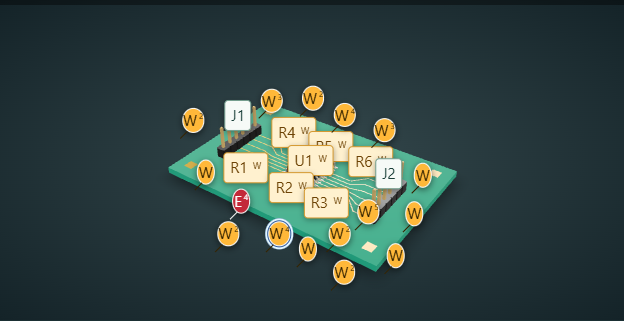
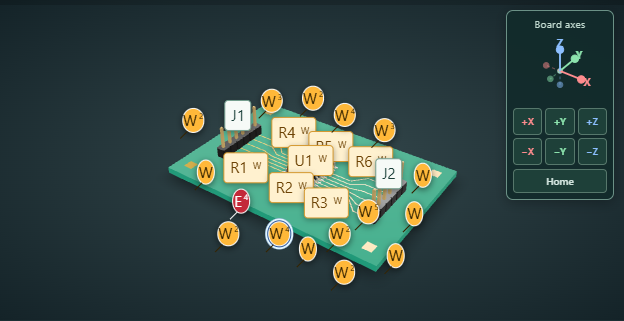
Add 3D identifier visibility and clickable camera axes

diff --git a/src/board3d.css b/src/board3d.css
@@ -6,3 +6,5 @@
 .component-hotspot:focus-visible{opacity:1;pointer-events:auto}.finding-3d-summary button{align-self:flex-start;margin-top:5px;padding:6px 9px;border:1px solid #c49b4b;border-radius:4px;background:#fff8e8;color:#61430e}@media(min-width:981px){.r2-board .native-model-stage model-viewer,.r2-board .board3d-webgl model-viewer{height:clamp(320px,calc(100dvh - 480px),520px)!important}}
 .finding-3d-legend{display:flex;flex-wrap:wrap;align-items:center;gap:10px 16px;padding:10px 12px;background:#eaf1ef;border-bottom:1px solid #c4d5ce;color:#294c42;font-size:12px}.finding-3d-legend label{display:flex;align-items:center;gap:5px;cursor:pointer;white-space:nowrap}.finding-3d-legend>span{flex-basis:100%;font-size:11px;line-height:1.5;color:#526c62}.finding-key{display:inline-grid;place-items:center;width:19px;height:19px;font-style:normal;font-weight:700;border-radius:50%;font-size:11px}.finding-key.error{background:#ba2734;color:#fff}.finding-key.warning{background:#f5b33a;color:#422900}.finding-3d-marker{display:inline-flex;align-items:center;justify-content:center;min-width:25px;min-height:25px;border:2px solid #fff;border-radius:50%;font:700 12px ui-monospace,monospace;box-shadow:0 2px 7px #0008;cursor:pointer}.finding-3d-marker.error{color:#fff;background:#c32939}.finding-3d-marker.warning{color:#352300;background:#ffb839}.finding-3d-marker sup{font-size:10px;margin-left:2px}.finding-3d-marker.selected{outline:3px solid #e3f7ff;outline-offset:3px;box-shadow:0 0 0 6px #244f96}.finding-3d-marker:not([data-visible]){opacity:0;pointer-events:none}.finding-3d-marker:focus-visible{opacity:1;outline:3px solid #b8e6ff;outline-offset:3px;pointer-events:auto}.component-hotspot[data-severity=error]{border-color:#da5260;box-shadow:0 0 0 1px #da5260;color:#8b1523;background:#ffe7eb}.component-hotspot[data-severity=warning]{border-color:#d5992f;color:#6d4305;background:#fff1cf}.component-hotspot sup{font-size:9px;margin-left:3px}.component-hotspot[data-selected=true]{outline:2px solid #92d4ff;outline-offset:3px}.finding-3d-list{padding:12px;background:#f3f7f5;color:#23473c;font-size:12px;border-top:1px solid #bed2c6}.finding-3d-list>div{display:flex;align-items:center;justify-content:space-between;gap:10px;margin-bottom:8px}.finding-3d-list>div button{font-size:20px;min-width:30px;min-height:30px}.finding-3d-list>button{display:block;width:100%;padding:10px;margin:5px 0;text-align:left;border:1px solid #b2c6b9;border-left:4px solid #c19030;border-radius:4px;background:#fff;color:#254d3d}.finding-3d-list>button[data-severity=error]{border-left-color:#be293a}.finding-3d-list>button[aria-pressed=true]{outline:2px solid #2d7774;outline-offset:1px}.finding-3d-list b{text-transform:capitalize}.finding-3d-list small{display:block;color:#5a7265;margin-top:4px}@media(max-width:600px){.finding-3d-marker{min-width:32px;min-height:32px}.finding-3d-legend label,.finding-3d-list button{min-height:44px}}
 .finding-3d-marker{position:relative;left:22px;top:-18px;min-width:18px;min-height:18px;font-size:10px;border-width:1px}.finding-3d-marker sup{font-size:8px}.finding-3d-marker.selected{outline-width:2px;outline-offset:1px;box-shadow:0 0 0 3px #244f96}.finding-3d-marker::after{content:"";position:absolute;width:1px;height:10px;left:0;bottom:-8px;background:currentColor;transform:rotate(45deg);pointer-events:none}.finding-3d-list{max-height:240px;overflow:auto}@media(max-width:600px){.finding-3d-marker{min-width:25px;min-height:25px;font-size:11px;left:24px;top:-24px}}
+.axis-gizmo{position:absolute;top:10px;right:10px;z-index:8;width:108px;padding:6px;background:#112b2bea;border:1px solid #6b9186;border-radius:7px;color:#d7e9e3;box-shadow:0 3px 12px #0004;user-select:none}.axis-gizmo-caption{display:block;text-align:center;font-size:10px;letter-spacing:.3px;color:#bfd8ce}.axis-gizmo svg{display:block;width:100%;height:76px;pointer-events:none}.axis-gizmo-buttons{display:grid;grid-template-columns:repeat(3,minmax(0,1fr));gap:3px}.axis-gizmo button{min-width:0;min-height:27px;border:1px solid #56776b;border-radius:4px;background:#1e4039;font:600 11px ui-monospace,monospace;cursor:pointer}.axis-gizmo button[aria-pressed=true]{background:#43645b;border-color:#e4f6ee;box-shadow:inset 0 0 0 1px #e4f6ee}.axis-gizmo button:disabled{opacity:.45;cursor:wait}.axis-gizmo button:focus-visible{outline:3px solid #ffe09a;outline-offset:2px}.axis-gizmo .axis-gizmo-home{width:100%;font-family:inherit;font-size:10px;color:#d7e9e3;margin-top:4px;min-height:24px}@media(max-width:600px){.axis-gizmo{width:112px;right:7px;top:7px}.axis-gizmo svg{height:58px}.axis-gizmo button{min-height:32px}.axis-gizmo .axis-gizmo-home{min-height:30px}}
+.axis-gizmo svg{pointer-events:auto}.axis-gizmo svg g{cursor:pointer}

diff --git a/src/ComponentLabels.tsx b/src/ComponentLabels.tsx
@@ -48,7 +48,7 @@ export function useComponentLabels(viewer:RefObject<HTMLElement|null>,geometry:G
  const severityFor=(p:typeof parts[number])=>{const findings=componentFindings(p.reference,p.id,geometry,options.severityFindings||options.findings).filter(f=>!f.excluded&&f.source!=='KiCad ERC');return findings.some(f=>f.severity==='error')?'error':findings.some(f=>f.severity==='warning')?'warning':undefined};
  const close=()=>{setPinned(undefined);setActive(undefined);viewer.current?.focus()};
  return {
-  control:enabled?<label className="component-label-toggle"><input type="checkbox" checked={labels} onChange={e=>setLabels(e.target.checked)}/>Labels</label>:null,
+  control:enabled?<label className="component-label-toggle"><input type="checkbox" checked={labels} onChange={e=>{setLabels(e.target.checked);if(!e.target.checked){setPinned(undefined);setActive(undefined)}}}/>Identifiers</label>:null,
   select:(reference:string)=>{setPinned(reference);setActive(reference)},
   hotspots:enabled?<>{labels&&parts.map(p=><button key={p.reference} slot={`hotspot-${p.reference}`} data-component-label={p.reference} data-selected={selectedPart(p)?'true':undefined} data-change={statuses.get(p.id)} data-severity={severityFor(p)} data-position={`${p.x-cx}m ${p.back?-5.5:p.type==='Connector / pin header'?9:p.type==='Integrated circuit'?3.1:1.1}m ${cy-p.y}m`} data-normal={p.back?'0 -1 0':'0 1 0'} data-visibility-attribute="visible" className={`component-hotspot ${active===p.reference||pinned===p.reference?'active':''}`} aria-label={`${p.reference}: ${p.type}`} aria-pressed={pinned===p.reference} aria-expanded={pinned===p.reference} aria-controls={pinned===p.reference?detailId:undefined} aria-describedby={active===p.reference&&!pinned?detailId:undefined} onPointerEnter={()=>setActive(p.reference)} onPointerLeave={()=>setActive(undefined)} onFocus={()=>setActive(p.reference)} onBlur={()=>setActive(undefined)} onClick={()=>setPinned(p.reference)} title={`${p.reference} · ${p.type}`}>{p.reference}{severityFor(p)&&<sup aria-hidden="true">{severityFor(p)==='error'?' E':' W'}</sup>}{statuses.has(p.id)&&<span> · {statuses.get(p.id)==='added'?'Added':statuses.get(p.id)==='removed'?'Removed':'Changed'}</span>}</button>)}{markers.map(o=>{const points=o.points,x=points.reduce((s,p)=>s+p[0],0)/points.length,y=points.reduce((s,p)=>s+p[1],0)/points.length;return <button key={o.id} slot={`hotspot-object-${o.id}`} className="component-hotspot object-3d-marker" data-selected-object={ids.has(o.id)?o.id:undefined} data-change={statuses.get(o.id)} data-position={`${x-cx}m ${o.layer?.toUpperCase().startsWith('B.')?-1.8:.3}m ${cy-y}m`} data-normal={o.layer?.toUpperCase().startsWith('B.')?'0 -1 0':'0 1 0'} aria-label={`Highlighted ${o.kind}${o.net?' on '+o.net:''}`} title={`UUID-resolved ${o.kind}; marker indicates object centre`}>{o.kind}{o.net?' · '+o.net:''}</button>})}</>:null,
   details:part?<div ref={detailRef} id={detailId} className={`component-tooltip ${pinned?'pinned':''}`} role={pinned?'region':'tooltip'} aria-label={pinned?`Component ${part.reference} details`:undefined} onKeyDown={e=>{if(e.key==='Escape')close()}}><strong>{part.reference} <span>{part.type}</span></strong>{pinned&&<button className="component-close" aria-label="Close component details" onClick={close}>×</button>}<p>{explanations[part.type]}</p><p className="component-id-note">{part.reference} is this part’s identifier in the design.{!pinned?' Tap or click to keep these details open.':''}</p>{part.model&&<p><b>Physical size:</b> {packageMeaning(part.model)}</p>}{part.value&&part.value!=='Review fixture'?<p><b>Design value:</b> {part.value}</p>:<p><b>Design value:</b> Not specified.</p>}{part.footprint&&<p><b>Footprint:</b> {part.footprint}</p>}{part.part_number&&<p><b>Manufacturer part:</b> {[part.manufacturer,part.part_number].filter(Boolean).join(' · ')}</p>}<p><b>Board attachment:</b> {part.pads} pads (electrical contact points), on the {part.back?'bottom':'top'} of the board.</p>{!!part.nets.length&&<p><b>Connections (nets):</b> {part.nets.map(net=>`${net} — ${netMeaning(net)}`).join('; ')}.</p>}<small>{part.model?<>KiCad library shape · Package model: {part.model.replace(/\.wrl$/,'')}</>:'Component type inferred from its identifier; 3D shape is illustrative.'}</small>{pinned&&<div className="component-related"><b>{related.length} related finding{related.length===1?'':'s'}</b>{related.map(f=><button key={f.id} aria-pressed={f.id===options.finding?.id} onClick={()=>options.onSelectFinding?.(f.id)}>{f.severity} · {f.title}{f.excluded?' (excluded)':''}</button>)}{!related.length&&<p>No finding is linked to this component in the current report. This is not a safety assessment.</p>}</div>}</div>:null,

diff --git a/src/NativeBoard3D.tsx b/src/NativeBoard3D.tsx
@@ -4,6 +4,7 @@ import {artifactUrl,demoMode,type Geometry,type Preview} from './api';
 import assignments from '../public/demo/models/assignments.json';
 import Board3D from './Board3D';
 import ModelInventory from './ModelInventory';
+import AxisGizmo from './AxisGizmo';
 import {useFindingHighlights} from './FindingHighlights';
 import {useComponentLabels} from './ComponentLabels';
 import {useLinkedCamera,type Review3DOptions} from './review3d';
@@ -27,7 +28,7 @@ export default function NativeBoard3D({pid,rid,model,geometry,preview,...options
  {error&&<div className="native-model-error" role="alert">{error}<button onClick={()=>{setLocal('');setFallback(true);setError('')}}>Use geometry preview</button></div>}
  {findingHighlights.controls}
  {options.finding&&<div className="finding-3d-summary"><strong>Selected finding: {options.finding.title}</strong><span>{src&&!mapped?'Use the geometry preview to locate this finding; this GLB has no verified component mapping.':(options.highlightIds||options.finding.board_object_ids)?.length?'Highlighted markers identify UUID-resolved objects, not an inferred collision point.':'This finding has no exact board-object mapping.'}</span>{src&&!mapped&&<button onClick={()=>setFallback(true)}>Locate finding in geometry</button>}</div>}
- {src?<><div className="native-model-stage">{createElement('model-viewer',{ref:viewer,src,tabIndex:0,loading:'eager','camera-controls':true,'touch-action':'pan-y','shadow-intensity':'1.3',exposure:'1.1','environment-image':'neutral','camera-orbit':'35deg 55deg auto',alt:'Interactive native 3D PCB with component models',style:{width:'100%',height:'520px',background:'radial-gradient(ellipse at center, #35494d, #142328)'}},identifiers.hotspots,findingHighlights.markers)}{identifiers.details}{!loaded&&!error&&<p role="status">Loading native model…</p>}</div><p className="board3d-note">{name||(example?'9 official KiCad library models · R1–R6, U1, J1–J2':'KiCad board export')} · Drag to orbit, scroll to zoom, right-drag to pan. {example&&!local?<>Visual package assignments for this synthetic board; fit and clearances are not verified. Recorded engineering results are unchanged. <a href={`${import.meta.env.BASE_URL}demo/models/LICENSE.md`}>KiCad library license</a></>:'Component shapes come from the supplied model. Use the geometry preview for UUID-linked inspection; no component coordinates are assumed for an arbitrary GLB.'}</p></>:<><Board3D geometry={geometry} preview={preview} {...options} focusReference={request}/><p className="board3d-note">Illustrative packages are shown where native models are unavailable. Open a complete GLB or supply assigned STEP/WRL files with your project ZIP.</p></>}
+ {src?<><div className="native-model-stage">{createElement('model-viewer',{ref:viewer,src,tabIndex:0,loading:'eager','camera-controls':true,'interaction-prompt':'none','touch-action':'pan-y','shadow-intensity':'1.3',exposure:'1.1','environment-image':'neutral','camera-orbit':'35deg 55deg auto',alt:'Interactive native 3D PCB with component models',style:{width:'100%',height:'520px',background:'radial-gradient(ellipse at center, #35494d, #142328)'}},identifiers.hotspots,findingHighlights.markers)}<AxisGizmo viewer={viewer} source={src} cameraGroup={options.cameraGroup} boardAxes={mapped}/>{identifiers.details}{!loaded&&!error&&<p role="status">Loading native model…</p>}</div><p className="board3d-note">{name||(example?'9 official KiCad library models · R1–R6, U1, J1–J2':'KiCad board export')} · Drag to orbit, scroll to zoom, right-drag to pan. {example&&!local?<>Visual package assignments for this synthetic board; fit and clearances are not verified. Recorded engineering results are unchanged. <a href={`${import.meta.env.BASE_URL}demo/models/LICENSE.md`}>KiCad library license</a></>:'Component shapes come from the supplied model. Use the geometry preview for UUID-linked inspection; no component coordinates are assumed for an arbitrary GLB.'}</p></>:<><Board3D geometry={geometry} preview={preview} {...options} focusReference={request}/><p className="board3d-note">Illustrative packages are shown where native models are unavailable. Open a complete GLB or supply assigned STEP/WRL files with your project ZIP.</p></>}
  {findingHighlights.panel}<ModelInventory geometry={geometry} models={assigned} onInspect={inspect} onSupply={()=>window.dispatchEvent(new Event('circuitcheck:upload'))}/>
  </div>;
 }

diff --git a/pages-tests/axes3d.spec.ts b/pages-tests/axes3d.spec.ts
@@ -1,0 +1,52 @@
+import {test,expect} from '@playwright/test';
+
+async function open3D(page:any){await page.goto('./');await page.getByRole('button',{name:'3D',exact:true}).click();await expect.poll(()=>page.locator('.native-model-stage model-viewer').evaluate((el:any)=>el.loaded)).toBe(true)}
+
+test('identifier toggle hides labels independently from findings and retains body inspection',async({page})=>{
+ await open3D(page);
+ await expect(page.getByRole('checkbox',{name:'Identifiers',exact:true})).toBeChecked();
+ await page.getByRole('button',{name:'R1: Resistor',exact:true}).click();
+ await expect(page.getByRole('region',{name:'Component R1 details'})).toBeVisible();
+ await page.getByRole('checkbox',{name:'Identifiers',exact:true}).uncheck();
+ await expect(page.locator('[data-component-label]')).toHaveCount(0);
+ await expect(page.getByRole('region',{name:'Component R1 details'})).toHaveCount(0);
+ expect(await page.locator('[data-finding-severity]').count()).toBeGreaterThan(0);
+ await page.getByRole('checkbox',{name:'Identifiers',exact:true}).check();
+ await expect(page.locator('[data-component-label]')).toHaveCount(9);
+});
+
+test('corner axes turn toward all board directions and preserve zoom',async({page})=>{
+ await open3D(page);
+ const model=page.locator('.native-model-stage model-viewer'),gizmo=page.getByRole('group',{name:'3D camera axes',exact:true});
+ await expect(gizmo).toBeVisible();
+ const radius=await model.evaluate((el:any)=>el.getCameraOrbit().radius);
+ for(const [axis,sign,theta,phi] of [['X','positive',Math.PI/2,Math.PI/2],['X','negative',-Math.PI/2,Math.PI/2],['Y','positive',Math.PI,Math.PI/2],['Y','negative',0,Math.PI/2],['Z','positive',0,.001],['Z','negative',0,Math.PI-.001]] as const){
+  const button=gizmo.getByRole('button',{name:`View from ${sign} ${axis} axis`,exact:true});
+  await button.click();
+  await expect.poll(()=>model.evaluate((el:any,{theta,phi})=>{const o=el.getCameraOrbit();return Math.sin(phi)*Math.sin(o.phi)*Math.cos(theta-o.theta)+Math.cos(phi)*Math.cos(o.phi)},{theta,phi})).toBeGreaterThan(.999);
+  await expect(button).toHaveAttribute('aria-pressed','true');
+  expect(await model.evaluate((el:any)=>el.getCameraOrbit().radius)).toBeCloseTo(radius,1);
+ }
+ await gizmo.getByRole('button',{name:'Reset 3D orientation'}).click();
+ await expect.poll(()=>model.evaluate((el:any)=>el.getCameraOrbit().theta)).toBeCloseTo(35*Math.PI/180,1);
+ await gizmo.locator('[data-axis-tip=X] text').click();
+ await expect(gizmo.getByRole('button',{name:'View from positive X axis',exact:true})).toHaveAttribute('aria-pressed','true');
+ await page.locator('.native-model-stage').screenshot({path:'screenshots/3d-axis-controls.png'});
+ await page.getByRole('button',{name:'Geometry preview',exact:true}).click();
+ await page.getByRole('button',{name:'View from positive Z axis',exact:true}).click();
+ await expect(page.getByRole('button',{name:'View from positive Z axis',exact:true})).toHaveAttribute('aria-pressed','true');
+});
+
+test('axis clicks synchronize linked revision cameras and remain keyboard accessible',async({page})=>{
+ await page.goto('./');await page.getByRole('button',{name:'Revision comparison',exact:true}).click();await page.getByRole('button',{name:'3D',exact:true}).click();
+ const models=page.locator('.r2-comparison-boards model-viewer');
+ for(const model of await models.all())await expect.poll(()=>model.evaluate((el:any)=>el.loaded)).toBe(true);
+ const axis=page.getByRole('button',{name:'View from positive X axis',exact:true}).first();
+ await expect(axis).toBeEnabled();
+ await axis.focus();await page.keyboard.press('Enter');
+ for(const model of await models.all())await expect.poll(()=>model.evaluate((el:any)=>el.getCameraOrbit().theta)).toBeCloseTo(Math.PI/2,1);
+ await page.getByRole('checkbox',{name:'Link 3D cameras',exact:true}).uncheck();
+ await page.getByRole('button',{name:'View from negative X axis',exact:true}).first().click();
+ await expect.poll(()=>models.first().evaluate((el:any)=>Math.sin(el.getCameraOrbit().theta))).toBeLessThan(-.999);
+ expect(await models.last().evaluate((el:any)=>el.getCameraOrbit().theta)).toBeCloseTo(Math.PI/2,1);
+});

diff --git a/src/AxisGizmo.tsx b/src/AxisGizmo.tsx
@@ -1,0 +1,24 @@
+import {useEffect,useState,type RefObject} from 'react';
+import {setCameraDirection} from './review3d';
+
+interface Camera extends HTMLElement {loaded?:boolean;getCameraOrbit:()=>{theta:number;phi:number;radius:number}}
+const colors={X:'#ff8c8e',Y:'#8ce3ad',Z:'#8cbfff'};
+export default function AxisGizmo({viewer,source,cameraGroup,boardAxes=true}:{viewer:RefObject<HTMLElement|null>;source:string;cameraGroup?:string;boardAxes?:boolean}){
+ const [orbit,setOrbit]=useState({theta:Math.PI*35/180,phi:Math.PI*55/180}),[ready,setReady]=useState(false);
+ useEffect(()=>{const el=viewer.current as Camera|null;if(!el)return;let frame=0;
+  const read=()=>{frame=0;const o=el.getCameraOrbit();setReady(!!el.loaded);setOrbit(old=>Math.abs(old.theta-o.theta)+Math.abs(old.phi-o.phi)<.0001?old:{theta:o.theta,phi:o.phi})};
+  const update=()=>{if(!frame)frame=requestAnimationFrame(read)};
+  el.addEventListener('camera-change',update);el.addEventListener('load',update);update();
+  return()=>{cancelAnimationFrame(frame);el.removeEventListener('camera-change',update);el.removeEventListener('load',update)};
+ },[viewer,source]);
+ // Board coordinates: X/Y lie on the PCB, Z points above it. GLB itself is Y-up.
+ const axes:{name:'X'|'Y'|'Z';vector:number[]}[]=boardAxes?[{name:'X',vector:[1,0,0]},{name:'Y',vector:[0,0,-1]},{name:'Z',vector:[0,1,0]}]:[{name:'X',vector:[1,0,0]},{name:'Y',vector:[0,1,0]},{name:'Z',vector:[0,0,1]}];
+ const {theta,phi}=orbit,right=[Math.cos(theta),0,-Math.sin(theta)],up=[-Math.cos(phi)*Math.sin(theta),Math.sin(phi),-Math.cos(phi)*Math.cos(theta)],view=[Math.sin(phi)*Math.sin(theta),Math.cos(phi),Math.sin(phi)*Math.cos(theta)],dot=(a:number[],b:number[])=>a.reduce((s,v,i)=>s+v*b[i],0);
+ const aim=(vector:number[])=>setCameraDirection(viewer.current,cameraGroup,Math.hypot(vector[0],vector[2])<.0001?0:Math.atan2(vector[0],vector[2]),Math.acos(vector[1]));
+ return <div className="axis-gizmo" role="group" aria-label="3D camera axes" onPointerDown={e=>e.stopPropagation()} onKeyDown={e=>e.stopPropagation()}>
+  <span className="axis-gizmo-caption">{boardAxes?'Board axes':'Model axes'}</span>
+  <svg viewBox="0 0 100 82" aria-hidden="true"><circle cx="50" cy="42" r="3" fill="#a8c9be"/>{[...axes].sort((a,b)=>dot(a.vector,view)-dot(b.vector,view)).map(axis=>{const x=dot(axis.vector,right)*28,y=-dot(axis.vector,up)*28;return <g key={axis.name} stroke={colors[axis.name]}><g onClick={()=>ready&&aim(axis.vector.map(v=>-v))}><line x1="50" y1="42" x2={50-x*.65} y2={42-y*.65} strokeDasharray="3 3" opacity=".45"/><circle cx={50-x*.65} cy={42-y*.65} r="3" fill={colors[axis.name]} opacity=".5"/></g><g data-axis-tip={axis.name} onClick={()=>ready&&aim(axis.vector)}><line x1="50" y1="42" x2={50+x} y2={42+y} strokeWidth="2"/><circle cx={50+x} cy={42+y} r="4" fill={colors[axis.name]}/><text x={50+x*1.28} y={46+y*1.28} textAnchor="middle" fill={colors[axis.name]} stroke="none" fontSize="12" fontWeight="700">{axis.name}</text></g></g>})}</svg>
+  <div className="axis-gizmo-buttons">{[1,-1].flatMap(sign=>axes.map(axis=>{const vector=axis.vector.map(v=>v*sign),label=`${sign===1?'+':'−'}${axis.name}`;return <button key={label} disabled={!ready} aria-label={`View from ${sign===1?'positive':'negative'} ${axis.name} axis`} aria-pressed={dot(vector,view)>.999} title={`Look toward the board from ${label}${boardAxes&&axis.name==='Z'?(sign===1?' (top)':' (bottom)'):''}`} style={{color:colors[axis.name]}} onClick={()=>aim(vector)}>{label}</button>}))}</div>
+  <button className="axis-gizmo-home" disabled={!ready} aria-label="Reset 3D orientation" onClick={()=>setCameraDirection(viewer.current,cameraGroup)}>Home</button>
+ </div>;
+}

diff --git a/src/Board3D.tsx b/src/Board3D.tsx
@@ -2,6 +2,7 @@ import {createElement,useEffect,useRef,useState} from 'react';
 import '@google/model-viewer';
 import type {Geometry,Preview} from './api';
 import {boardModel} from './boardModel';
+import AxisGizmo from './AxisGizmo';
 import {useFindingHighlights} from './FindingHighlights';
 import {useComponentLabels} from './ComponentLabels';
 import './board3d.css';
@@ -23,6 +24,6 @@ export default function Board3D({geometry,preview,...options}:{geometry?:Geometr
  return <div className="board3d"><div className="board3d-toolbar"><div><button onClick={()=>magnify(1/1.25)} aria-label="Zoom out 3D">−</button><span>{Math.round(zoom*100)}%</span><button onClick={()=>magnify(1.25)} aria-label="Zoom in 3D">+</button><button onClick={reset}>Reset view</button><button onClick={()=>orbit(0,.001)}>Top</button><button onClick={()=>orbit(0,Math.PI-.001)}>Bottom</button></div>{identifiers.control}<label><input type="checkbox" checked={components} onChange={e=>setComponents(e.target.checked)}/>Components</label></div>
  {findingHighlights.controls}{error&&<p role="alert">{error}</p>}
  <div className="board3d-webgl" role="group" aria-label="Interactive 3D board preview" tabIndex={0} data-components={components?'visible':'hidden'} onKeyDown={e=>{const el=viewer.current;if(!el)return;if(e.key.startsWith('Arrow')){e.preventDefault();const o=el.getCameraOrbit();orbit(o.theta+(e.key==='ArrowLeft'?-.15:e.key==='ArrowRight'?.15:0),Math.max(.001,Math.min(Math.PI-.001,o.phi+(e.key==='ArrowUp'?-.15:e.key==='ArrowDown'?.15:0))))}if(e.key.toLowerCase()==='f')reset()}}>
- {src&&createElement('model-viewer',{ref:viewer,src,tabIndex:0,loading:'eager','camera-controls':true,'touch-action':'none','shadow-intensity':'1','environment-image':'neutral','camera-orbit':'35deg 55deg auto','min-camera-orbit':'auto 0deg 10%','max-camera-orbit':'auto 180deg 500%',alt:'Board with representative resistors, capacitors, IC leads and connector pins',style:{display:'block',width:'100%',height:'480px'}},identifiers.hotspots,findingHighlights.markers)}{identifiers.details}
+ {src&&createElement('model-viewer',{ref:viewer,src,tabIndex:0,loading:'eager','camera-controls':true,'interaction-prompt':'none','touch-action':'none','shadow-intensity':'1','environment-image':'neutral','camera-orbit':'35deg 55deg auto','min-camera-orbit':'auto 0deg 10%','max-camera-orbit':'auto 180deg 500%',alt:'Board with representative resistors, capacitors, IC leads and connector pins',style:{display:'block',width:'100%',height:'480px'}},identifiers.hotspots,findingHighlights.markers)}{src&&<AxisGizmo viewer={viewer} source={src} cameraGroup={options.cameraGroup}/ >}{identifiers.details}
  </div>{findingHighlights.panel}<div className="board3d-hint">Drag to rotate · Scroll to zoom · Right-drag to pan · Arrow keys to orbit</div><p className="board3d-note">Representative package shapes from pad locations and component references. These are not manufacturer models. Board thickness, heights and rectangular outline are illustrative. Components on the far side are hidden by the board.</p></div>;
 }

diff --git a/src/review3d.ts b/src/review3d.ts
@@ -21,6 +21,11 @@ export function selectedObjects(geometry:Geometry|undefined,options:Review3DOpti
 }
 interface Camera extends HTMLElement {cameraOrbit:string;cameraTarget:string;getCameraOrbit:()=>{theta:number;phi:number;radius:number};getCameraTarget:()=>{x:number;y:number;z:number};jumpCameraToGoal:()=>void}
 const cameras=new Map<string,Set<Camera>>();
+export function setCameraDirection(viewer:HTMLElement|null,group?:string,theta?:number,phi?:number){
+ if(!viewer)return;const camera=viewer as Camera,peers=group?cameras.get(group):undefined,targets=peers?.size?peers:new Set([camera]);
+ const orbit=theta===undefined?'35deg 55deg auto':`${theta}rad ${Math.max(.001,Math.min(Math.PI-.001,phi!))}rad ${camera.getCameraOrbit().radius}m`;
+ for(const target of targets){target.cameraOrbit=orbit;if(theta===undefined)target.cameraTarget='auto auto auto';if(window.matchMedia('(prefers-reduced-motion: reduce)').matches)target.jumpCameraToGoal()}
+}
 // Direct camera events avoid rerendering both assemblies or feeding programmatic moves back.
 export function useLinkedCamera(viewer:RefObject<HTMLElement|null>,group:string|undefined,source:string){
  useEffect(()=>{const el=viewer.current as Camera|null;if(!el||!group)return;const peers=cameras.get(group)||new Set<Camera>();peers.add(el);cameras.set(group,peers);

diff --git a/pages-tests/board3d.spec.ts b/pages-tests/board3d.spec.ts
@@ -15,7 +15,7 @@ test('component labels identify library packages and hovering component bodies s
  await expect(page.getByRole('tooltip')).toContainText('GND — ground / electrical reference');
  await label.focus();
  await expect(page.getByRole('tooltip')).toContainText('Integrated circuit');
- await page.getByLabel('Labels',{exact:true}).uncheck();
+ await page.getByLabel('Identifiers',{exact:true}).uncheck();
  await expect(label).toHaveCount(0);
  await model.scrollIntoViewIfNeeded();
  // Find an actual surface point on the centre IC, rather than hovering its label.
@@ -24,7 +24,7 @@ test('component labels identify library packages and hovering component bodies s
  await page.mouse.move(point!.x,point!.y);
  await expect(page.getByRole('tooltip')).toContainText('U1');
  await expect(page.getByRole('tooltip')).toContainText('Connections (nets):');
- await page.getByLabel('Labels',{exact:true}).check();
+ await page.getByLabel('Identifiers',{exact:true}).check();
  await page.getByRole('button',{name:'R1: Resistor',exact:true}).hover();
  await expect(page.getByRole('tooltip')).toContainText('R_1206_3216Metric');
  await expect(page.getByRole('tooltip')).toContainText('Limits electric current');

diff --git a/pages-tests/findings3d.spec.ts b/pages-tests/findings3d.spec.ts
@@ -26,7 +26,7 @@ test('3D shows error and warning markers, selects findings, and filters each sev
 test('severity highlights remain available in geometry mode with labels hidden',async({page})=>{
  await page.goto('./');await page.getByRole('button',{name:'3D',exact:true}).click();
  await page.getByRole('button',{name:'Geometry preview',exact:true}).click();
- await page.getByRole('checkbox',{name:'Labels',exact:true}).uncheck();
+ await page.getByRole('checkbox',{name:'Identifiers',exact:true}).uncheck();
  const model=page.locator('.board3d-webgl model-viewer');
  await expect.poll(()=>model.evaluate((el:any)=>el.loaded)).toBe(true);
  await expect(page.locator('[data-component-label]')).toHaveCount(0);

diff --git a/WORKFLOW-UPGRADE.md b/WORKFLOW-UPGRADE.md
@@ -5,9 +5,11 @@
 - New local analysis retains component values, footprints, manufacturer/part number fields and assigned model paths. Missing values remain unspecified; older reports need a rerun for newly retained fields. Display metadata does not change legacy object signatures.
 - Components & models provides search and distinguishes example library assignments, bundled model files, missing files, unresolved assignments and illustrative shapes. Assigned paths alone do not prove that KiCad rendered a model. The upload action accepts a project ZIP with assigned model files; complete GLBs can be opened locally.
 - Revision 3D views mark added, removed and changed objects on their respective sides, report component-envelope movement and optionally synchronize camera orbit, zoom and pan. UUID matching does not establish equivalent electrical intent.
-- Labels work with pointer hover and keyboard focus; taps/clicks keep details open. Related findings are keyboard accessible, Escape dismisses details, and pinned details scroll within a bounded panel rather than covering the board.
+- Identifiers can be hidden independently of findings and work with pointer hover and keyboard focus; taps/clicks keep details open. Related findings are keyboard accessible, Escape dismisses details, and pinned details scroll within a bounded panel rather than covering the board.
 
 Board errors and warnings are shown as red E and amber W markers. Nearby findings share a selection menu. Checkboxes independently hide each severity, including selected finding highlights. Excluded and schematic-only findings are not placed on the board; findings without mapped positions are counted without guessed locations.
+
+The corner axis control rotates with the camera. Click an axis tip or a positive/negative axis button to face that direction without changing zoom; Home restores the initial view. Mapped boards use X/Y on the PCB and Z above it. Arbitrary GLBs use their model axes (Y-up). The idle camera animation is disabled so snapped views remain still. Linked revision cameras also synchronize axis clicks.
 
 ## Mapping limits
 
@@ -16,6 +18,6 @@ The recorded example and generated geometry previews have known coordinate frame
 ## Validation
 
 - `npm run build` and `npm run build:pages` passed.
-- All 12 browser checks passed: existing review/schematic/comparison/export behavior, labels and hover, binary model loading, first visit, responsive widths, pinned/keyboard/mobile details, related findings, inventory and supply action, changed components, and actual pointer-driven synchronized orbit/zoom, and red/amber finding markers with independent severity toggles.
+- All 15 browser checks passed: existing review/schematic/comparison/export behavior, labels and hover, binary model loading, first visit, responsive widths, pinned/keyboard/mobile details, related findings, inventory and supply action, changed components, actual pointer-driven synchronized orbit/zoom, red/amber finding markers with independent severity toggles, identifier visibility, six axis views, clickable axis tips, reset and synchronized axis clicks.
 - 14 focused Python checks passed for component metadata, model export adapter and review/geometry behavior. Native engine integration tests were not run here.
 - Comparing old and new source parsers preserved all 107 object signatures for the original example fixture.
